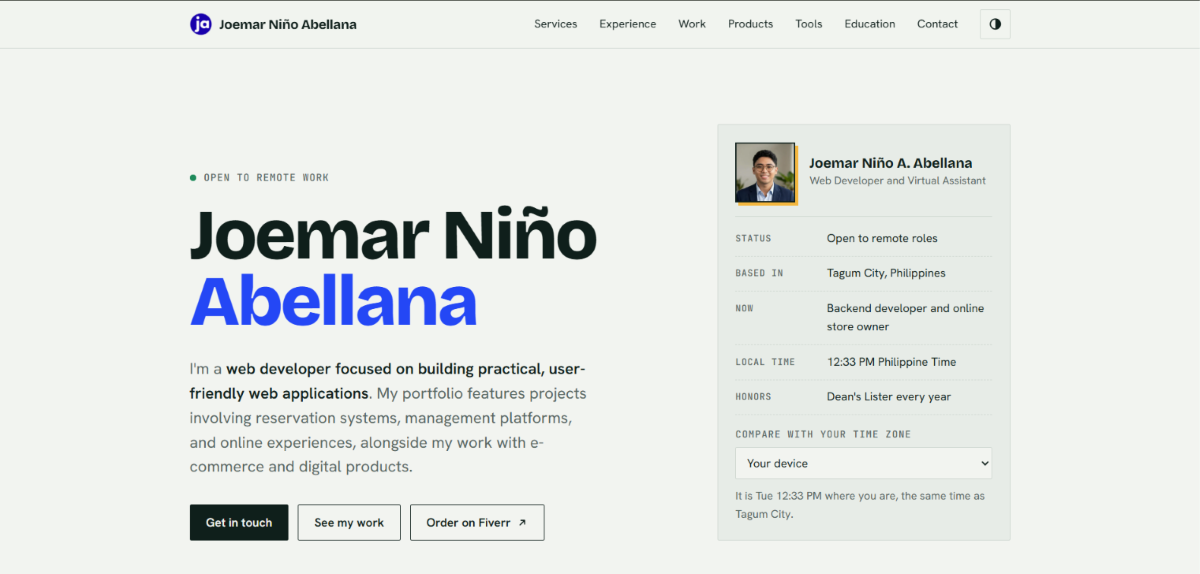
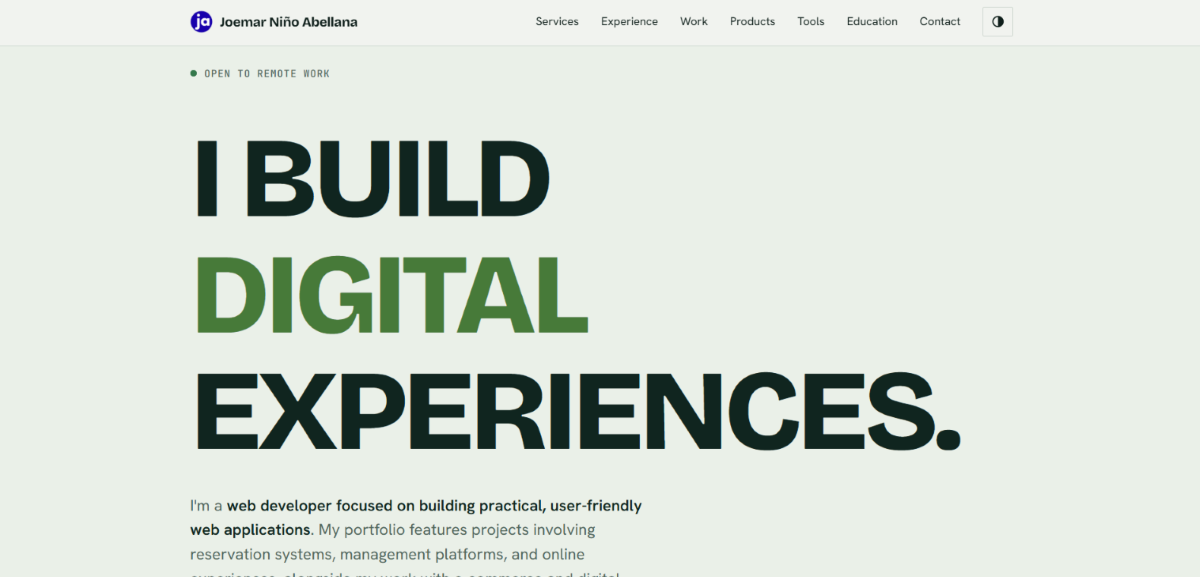
OG preview has been updated

diff --git a/index.html b/index.html
@@ -9,7 +9,7 @@
   <meta property="og:url" content="https://joemarportfolio.netlify.app/">
   <meta property="og:image" content="https://joemarportfolio.netlify.app/images/og-preview.png">
   <meta property="og:image:width" content="1200">
-  <meta property="og:image:height" content="574">
+  <meta property="og:image:height" content="577">
   <meta property="og:image:alt" content="Joemar Niño Abellana's web developer portfolio preview">
 
   <meta name="description"
